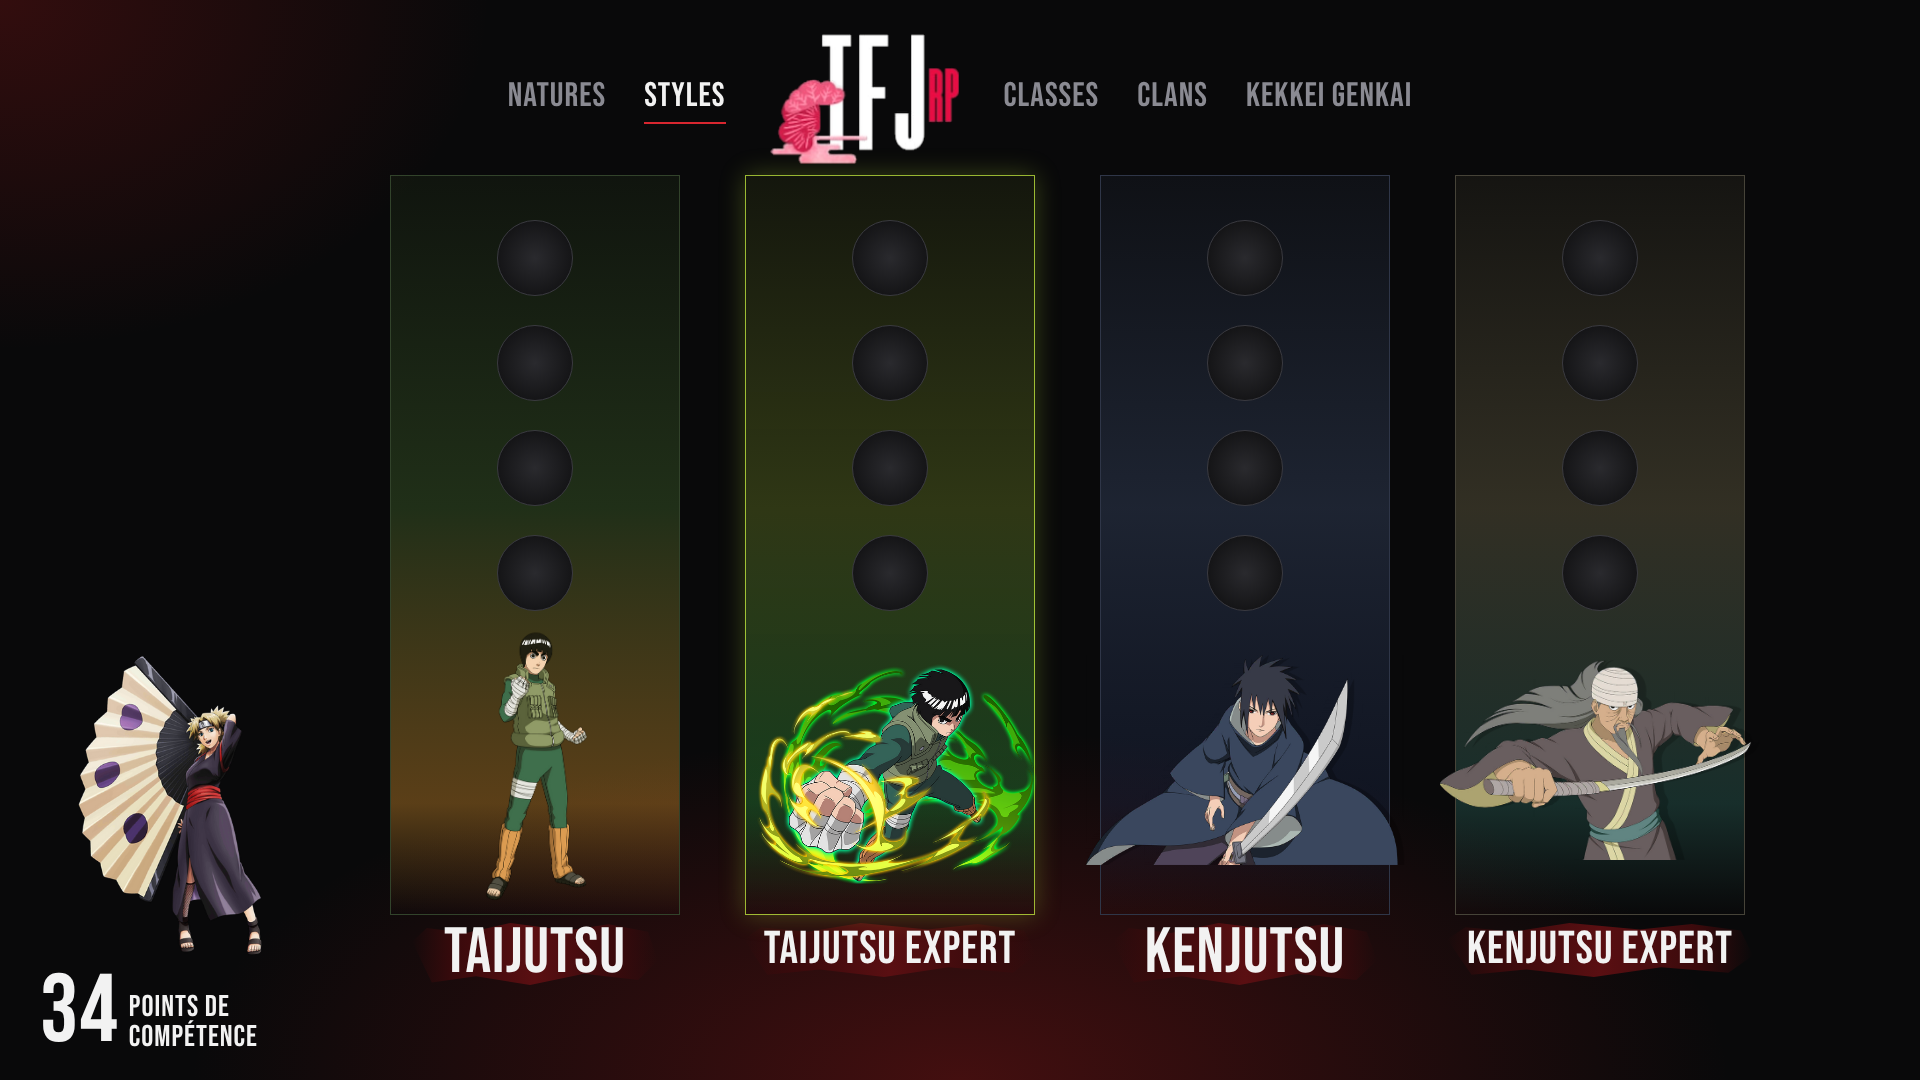
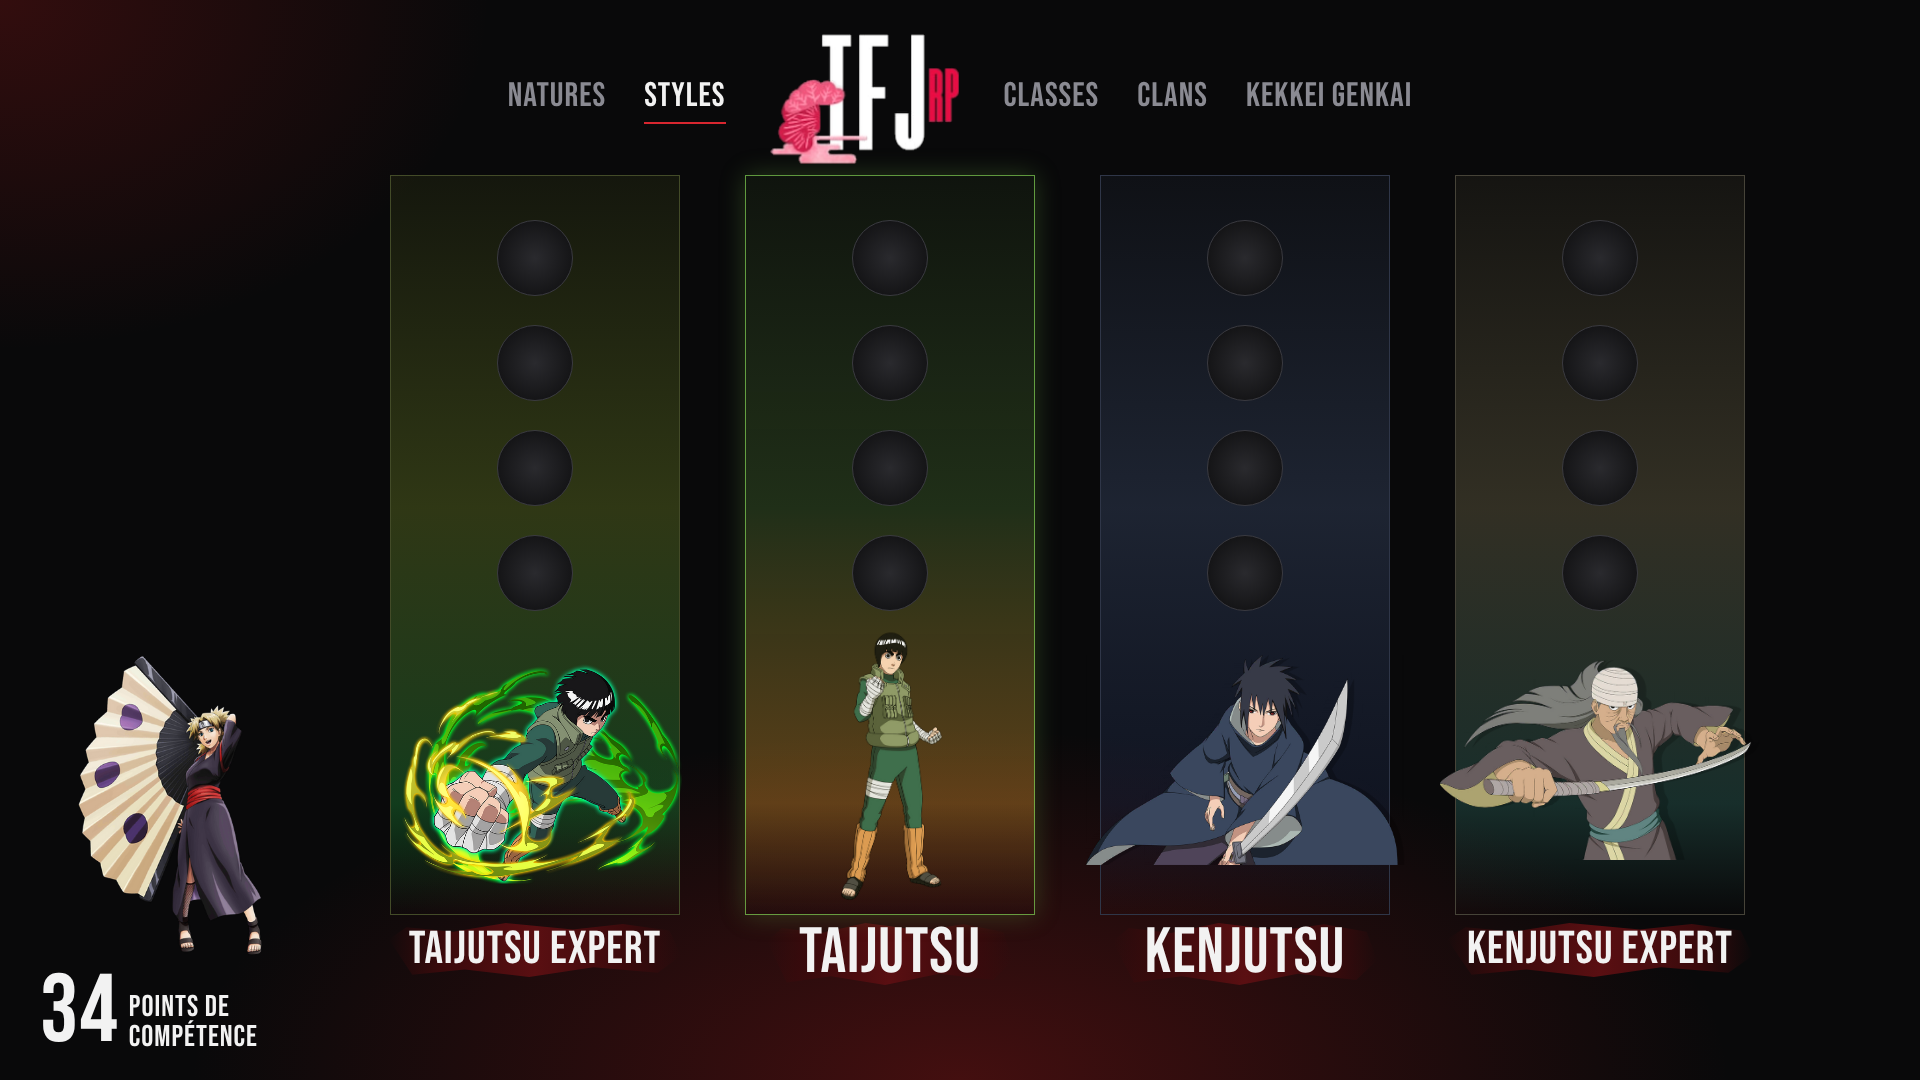
F4 Styles : bases au centre, Expert aux extremites
Claude-Session: https://claude.ai/code/session_01WNq6bnfK84GAyjbejrSsQj

Changed region(s): [[0.1875, 0.5806, 0.5625, 0.825], [0.375, 0.8556, 0.5312, 0.9167], [0.2188, 0.8556, 0.3438, 0.9167]]

diff --git a/maquettes/classe/maquette_f4_styles.html b/maquettes/classe/maquette_f4_styles.html
@@ -56,7 +56,7 @@ body{width:1920px;height:1080px;overflow:hidden;position:relative;font-family:Po
 
 
 <!-- 4 colonnes = 4 styles du skill tree, 4 techniques chacune (icones existantes) -->
-<div class="col" style="left:370px;--c1:#7cc850;--c2:#e0962e">
+<div class="col on" style="left:725px;--c1:#7cc850;--c2:#e0962e">
   <div class="palier" style="top:45px"><span class="gem"></span></div>
   <div class="palier" style="top:150px"><span class="gem"></span></div>
   <div class="palier" style="top:255px"><span class="gem"></span></div>
@@ -65,7 +65,7 @@ body{width:1920px;height:1080px;overflow:hidden;position:relative;font-family:Po
   <div class="nom"><div class="t">TAIJUTSU</div></div>
 </div>
 
-<div class="col on" style="left:725px;--c1:#c8f040;--c2:#1f8f3a">
+<div class="col" style="left:370px;--c1:#c8f040;--c2:#1f8f3a">
   <div class="palier" style="top:45px"><span class="gem"></span></div>
   <div class="palier" style="top:150px"><span class="gem"></span></div>
   <div class="palier" style="top:255px"><span class="gem"></span></div>
